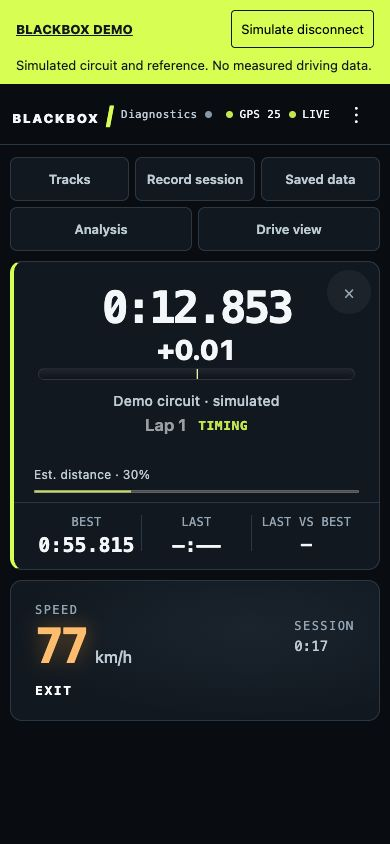
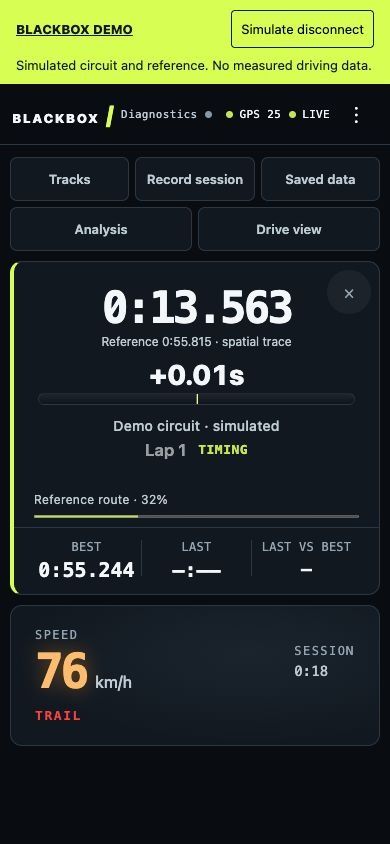
Clarify reference label and refresh the real dashboard screenshot

Changed region(s): [[0.0923, 0.3389, 0.9231, 0.8626], [0.4923, 0.7085, 0.9231, 0.8009], [0.0, 0.6469, 0.0615, 0.7085]]

diff --git a/sensors/blackbox/web/dashboard.html b/sensors/blackbox/web/dashboard.html
@@ -420,7 +420,7 @@ body:not(.analysis-view) .bbGTopRight{display:block}
                     <span class="bbLapState" id="lap-state" role="status">Ready for start</span>
                 </div>
             </div>
-            <div class="bbLapProgress" id="lap-progress" hidden><span id="lap-progress-label">Estimated distance</span><progress id="lap-progress-bar" max="100" value="0" aria-label="Estimated distance through reference lap"></progress></div>
+            <div class="bbLapProgress" id="lap-progress" hidden><span id="lap-progress-label">Estimated distance</span><progress id="lap-progress-bar" max="100" value="0" aria-label="Matched position along reference route"></progress></div>
             <div class="bbLapResult" id="lap-result" role="status" hidden></div>
             <div class="bbLapHistory">
                 <div class="bbLapHistItem">
@@ -2020,7 +2020,7 @@ function showLapResult(time,previousBest){
 }
 function updateLapTimer(lapTimeMs,lapCnt,lapFlags,timing=null){
     updateLapProgress(false);
-    $('reference-label').textContent=referenceLap?.spatial?'Vs reference '+fmtLapTime(referenceLap.lapTimeMs)+' · position matched':referenceLap?'Older reference · complete a clean lap/run to upgrade':'';
+    $('reference-label').textContent=referenceLap?.spatial?'Reference '+fmtLapTime(referenceLap.lapTimeMs)+' · spatial trace':referenceLap?'Older reference · complete a clean lap/run to upgrade':'';
     const sec=$('lap-section');
     // Don't deactivate if we have an active track - firmware zeros just means "armed"
     // Only deactivate via explicit deactivateTrack() call
